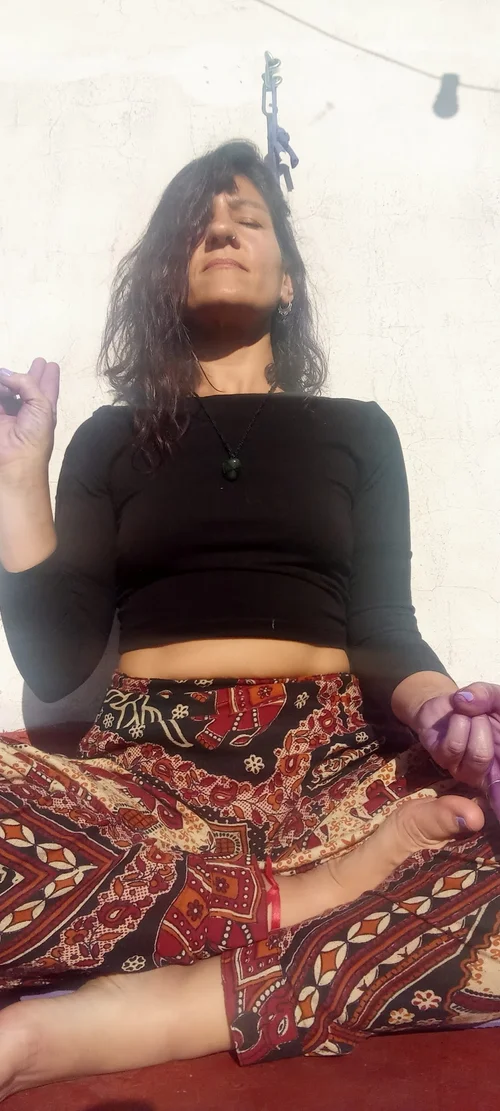
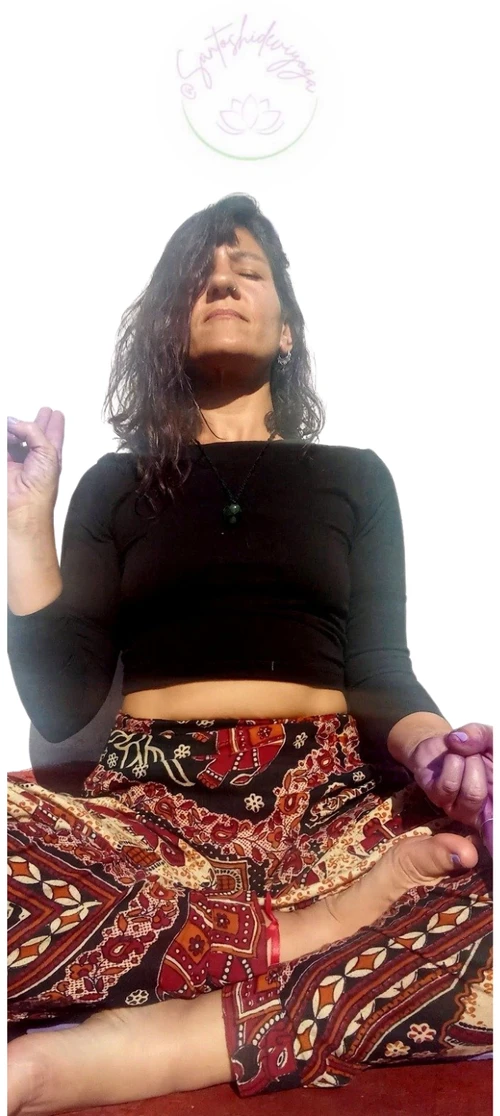
modi 2

diff --git a/src/components/styles/sections/ProductsSection.styled.jsx b/src/components/styles/sections/ProductsSection.styled.jsx
@@ -63,23 +63,27 @@ export const ProductCard = styled.div`
 
 export const ProductImage = styled.div`
   width: 100%;
-  height: 250px;
+  height: 320px;
   overflow: hidden;
   background: ${({ theme }) => theme.colors.violetLight};
   display: flex;
   align-items: center;
   justify-content: center;
-  padding: 1rem;
+  padding: 1.5rem;
 
   img {
     max-width: 100%;
     max-height: 100%;
     object-fit: contain;
-    transition: transform 0.3s ease;
+    transition: transform 200ms ease;
   }
 
   ${ProductCard}:hover & img {
-    transform: scale(1.05);
+    transform: scale(1.03);
+  }
+
+  @media (max-width: ${({ theme }) => theme.mobile}) {
+    height: 280px;
   }
 `
 

diff --git a/src/components/styles/sections/HeroSection.styled.jsx b/src/components/styles/sections/HeroSection.styled.jsx
@@ -158,22 +158,20 @@ export const HeroImage = styled.div`
   flex: 1;
   display: flex;
   justify-content: center;
-  align-items: center;
+  align-items: flex-end;
   animation: ${float} 6s ease-in-out infinite;
 
   img {
     max-width: 100%;
-    max-height: 500px;
-    border-radius: 20px;
-    object-fit: cover;
+    max-height: 520px;
+    object-fit: contain;
   }
 
   @media (max-width: ${({ theme }) => theme.mobile}) {
-    max-width: 250px;
+    max-width: 220px;
 
     img {
-      max-height: 300px;
-      border-radius: 16px;
+      max-height: 280px;
     }
   }
 `

diff --git a/src/components/styles/sections/AboutSection.styled.jsx b/src/components/styles/sections/AboutSection.styled.jsx
@@ -26,19 +26,19 @@ export const SectionContainer = styled.div`
 export const ImageContainer = styled.div`
   display: flex;
   justify-content: center;
+  align-items: center;
 
   img {
     width: 100%;
-    max-width: 350px;
-    border-radius: 20px;
-    box-shadow: 0 10px 40px rgba(142, 106, 174, 0.2);
+    max-width: 380px;
+    object-fit: contain;
   }
 
   @media (max-width: ${({ theme }) => theme.mobile}) {
     order: -1;
 
     img {
-      max-width: 280px;
+      max-width: 260px;
     }
   }
 `
